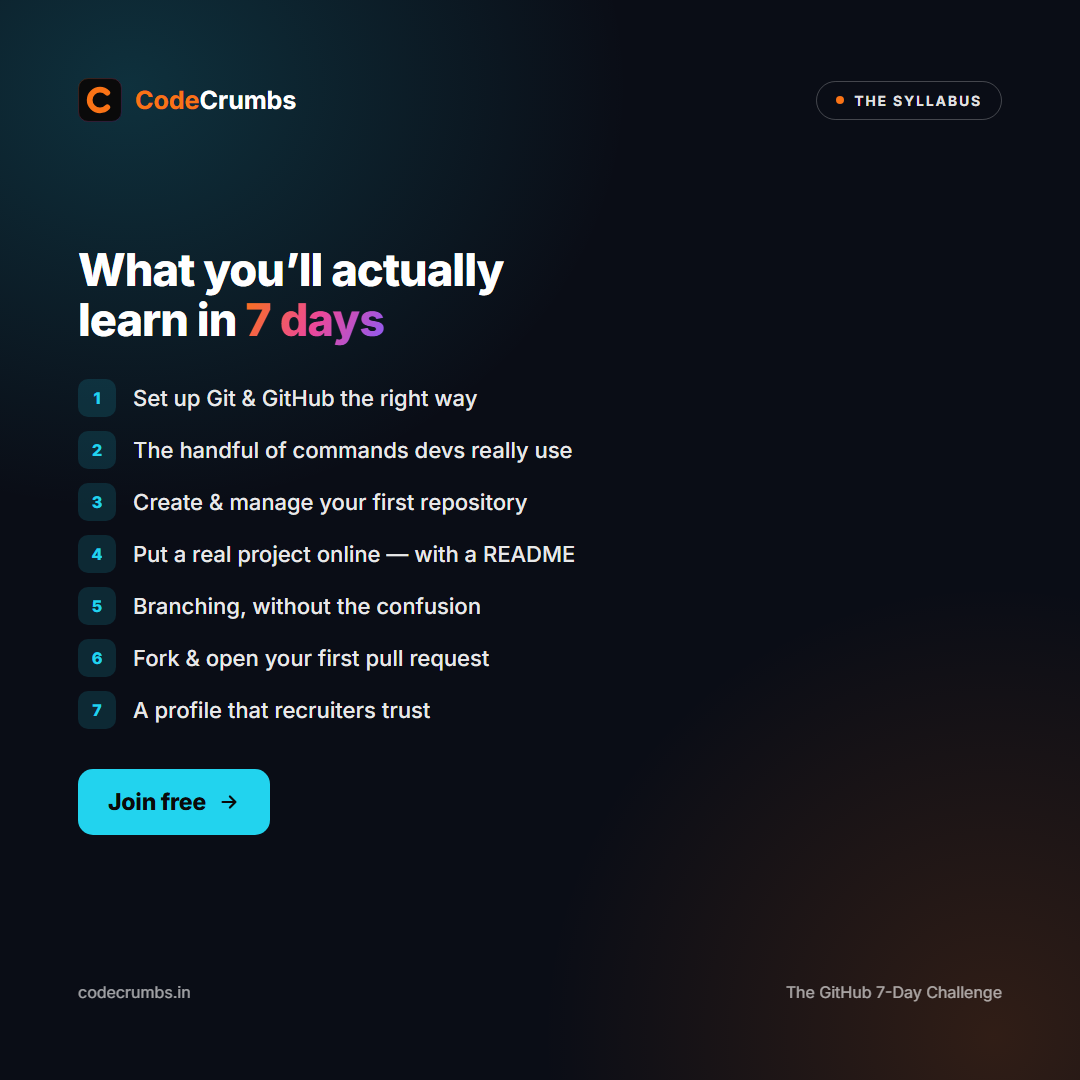
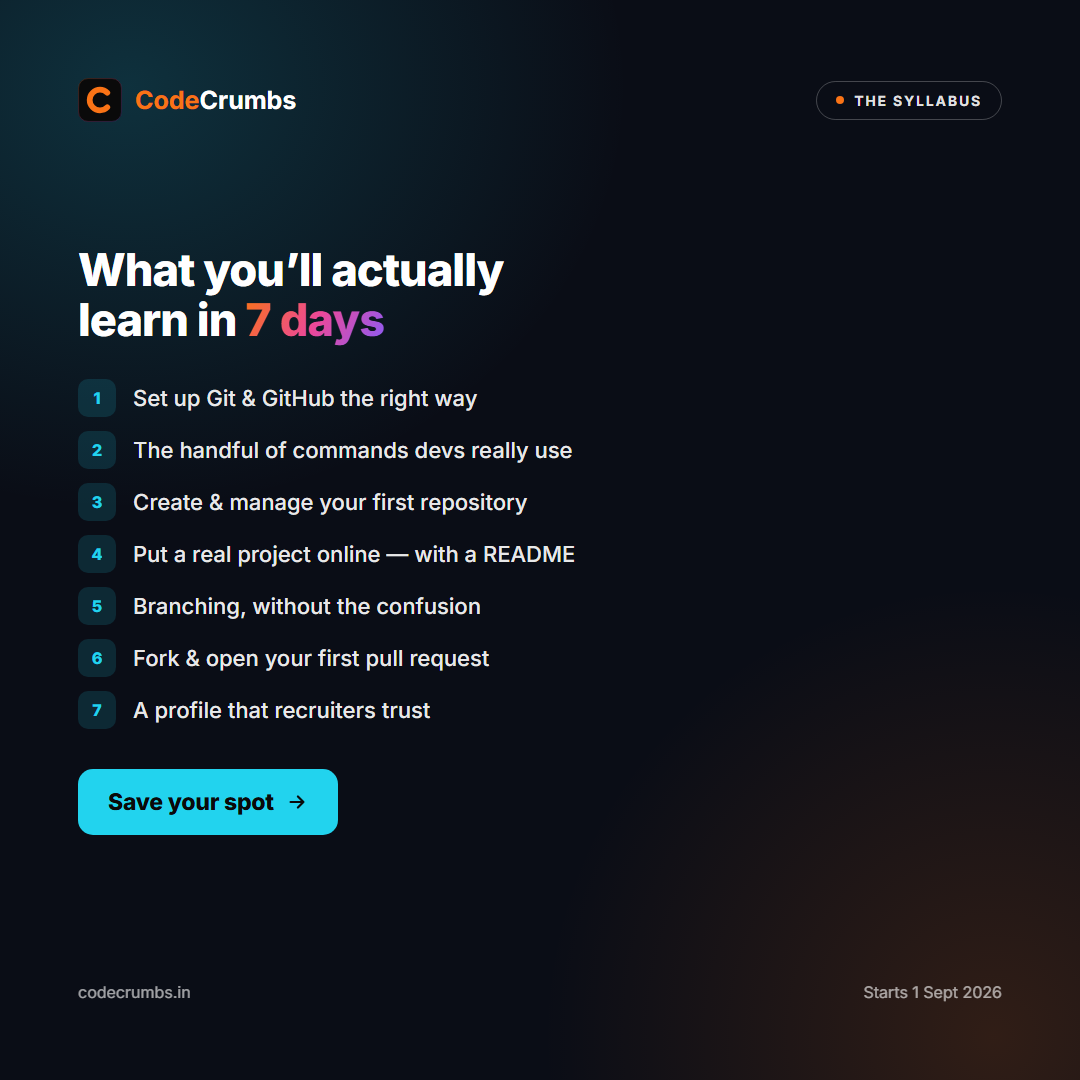
Ad copy: drop "free", add "Starts 1 Sept 2026"
The challenge is not free and has a fixed start date. Removed every
price/"free" mention from the ad creatives and put the start date in
its place:
  gradient   pill "Free · 7 days" -> "Starts 1 Sept 2026"; CTA "Join the challenge"
  transform  footer -> "Starts 1 Sept 2026 · 10-20 min a day"
  checklist  CTA "Join free" -> "Save your spot"; footer -> start date
  seven      CTA "Start today - it's free" -> "Save your spot"; footer -> start date
  profile    footer -> "Starts 1 Sept 2026 · 10-20 min a day"

CLAUDE.md: note that ads must not state a price / say "free".

Changed region(s): [[0.0917, 0.7028, 0.3361, 0.7944], [0.7333, 0.9167, 0.9167, 0.9472]]

diff --git a/products/github-7-day-challenge/CLAUDE.md b/products/github-7-day-challenge/CLAUDE.md
@@ -78,7 +78,8 @@ self-contained and never imported by `src/`.
 - `adImageHtml` is the opposite case — these are paid ads, so headline + CTA are
   wanted. Keep them square (1080), keep the Code Crumbs wordmark + GitHub mark,
   and keep the `@your-username` profile mock a clear placeholder (never a real
-  handle). Deliverables live in `ads/`.
+  handle). **Do not state a price or call it "free"** — the ads carry the start
+  date ("Starts 1 Sept 2026") instead. Deliverables live in `ads/`.
 - Deliverables (`pdfs/`, `pdfs-v2/`, `logo/`, `thumbnail/`, `ads/`) are committed.
   `build/` is scratch and git-ignored.
 - When editing PDF layout, change `pdf.css` and `pdf-v2.css` together so v1/v2
